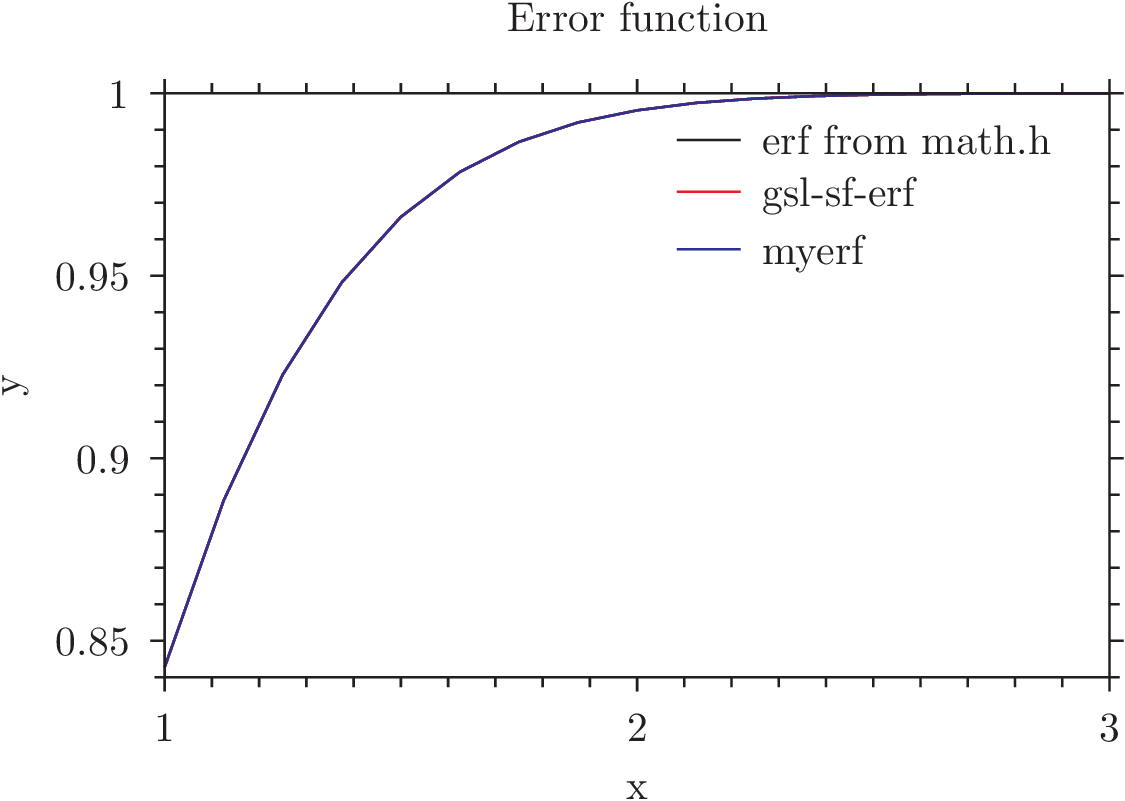
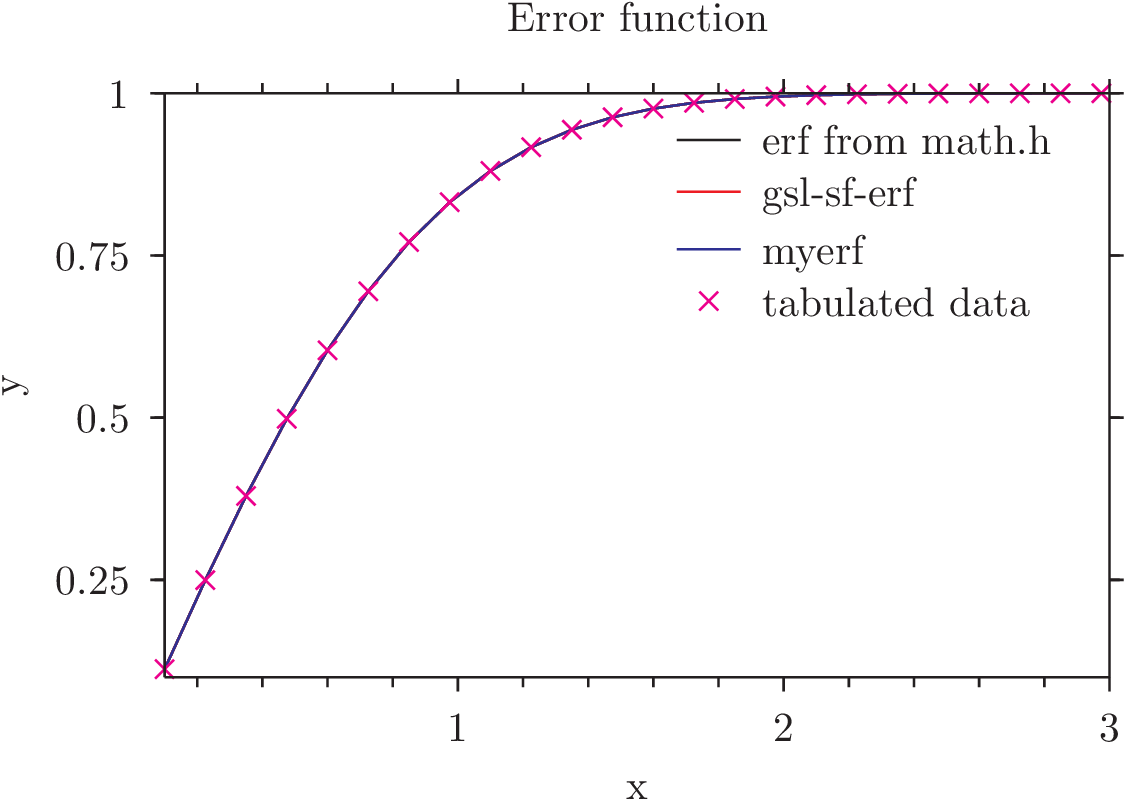
Plot exercise done

diff --git a/exercises/plots/main.c b/exercises/plots/main.c
@@ -7,7 +7,7 @@ double myerf(double);
 double mygam(double);
 
 int main() {
-	double xmin=1, xmax=3;
+	double xmin=0.1, xmax=3;
 	for(double x=xmin; x<=xmax; x+=1.0/8){
 		printf("%10g %10g %10g %10g %10g %10g %10g\n",x,erf(x),gsl_sf_erf(x),myerf(x),tgamma(x),gsl_sf_gamma(x),mygam(x));
 	}
